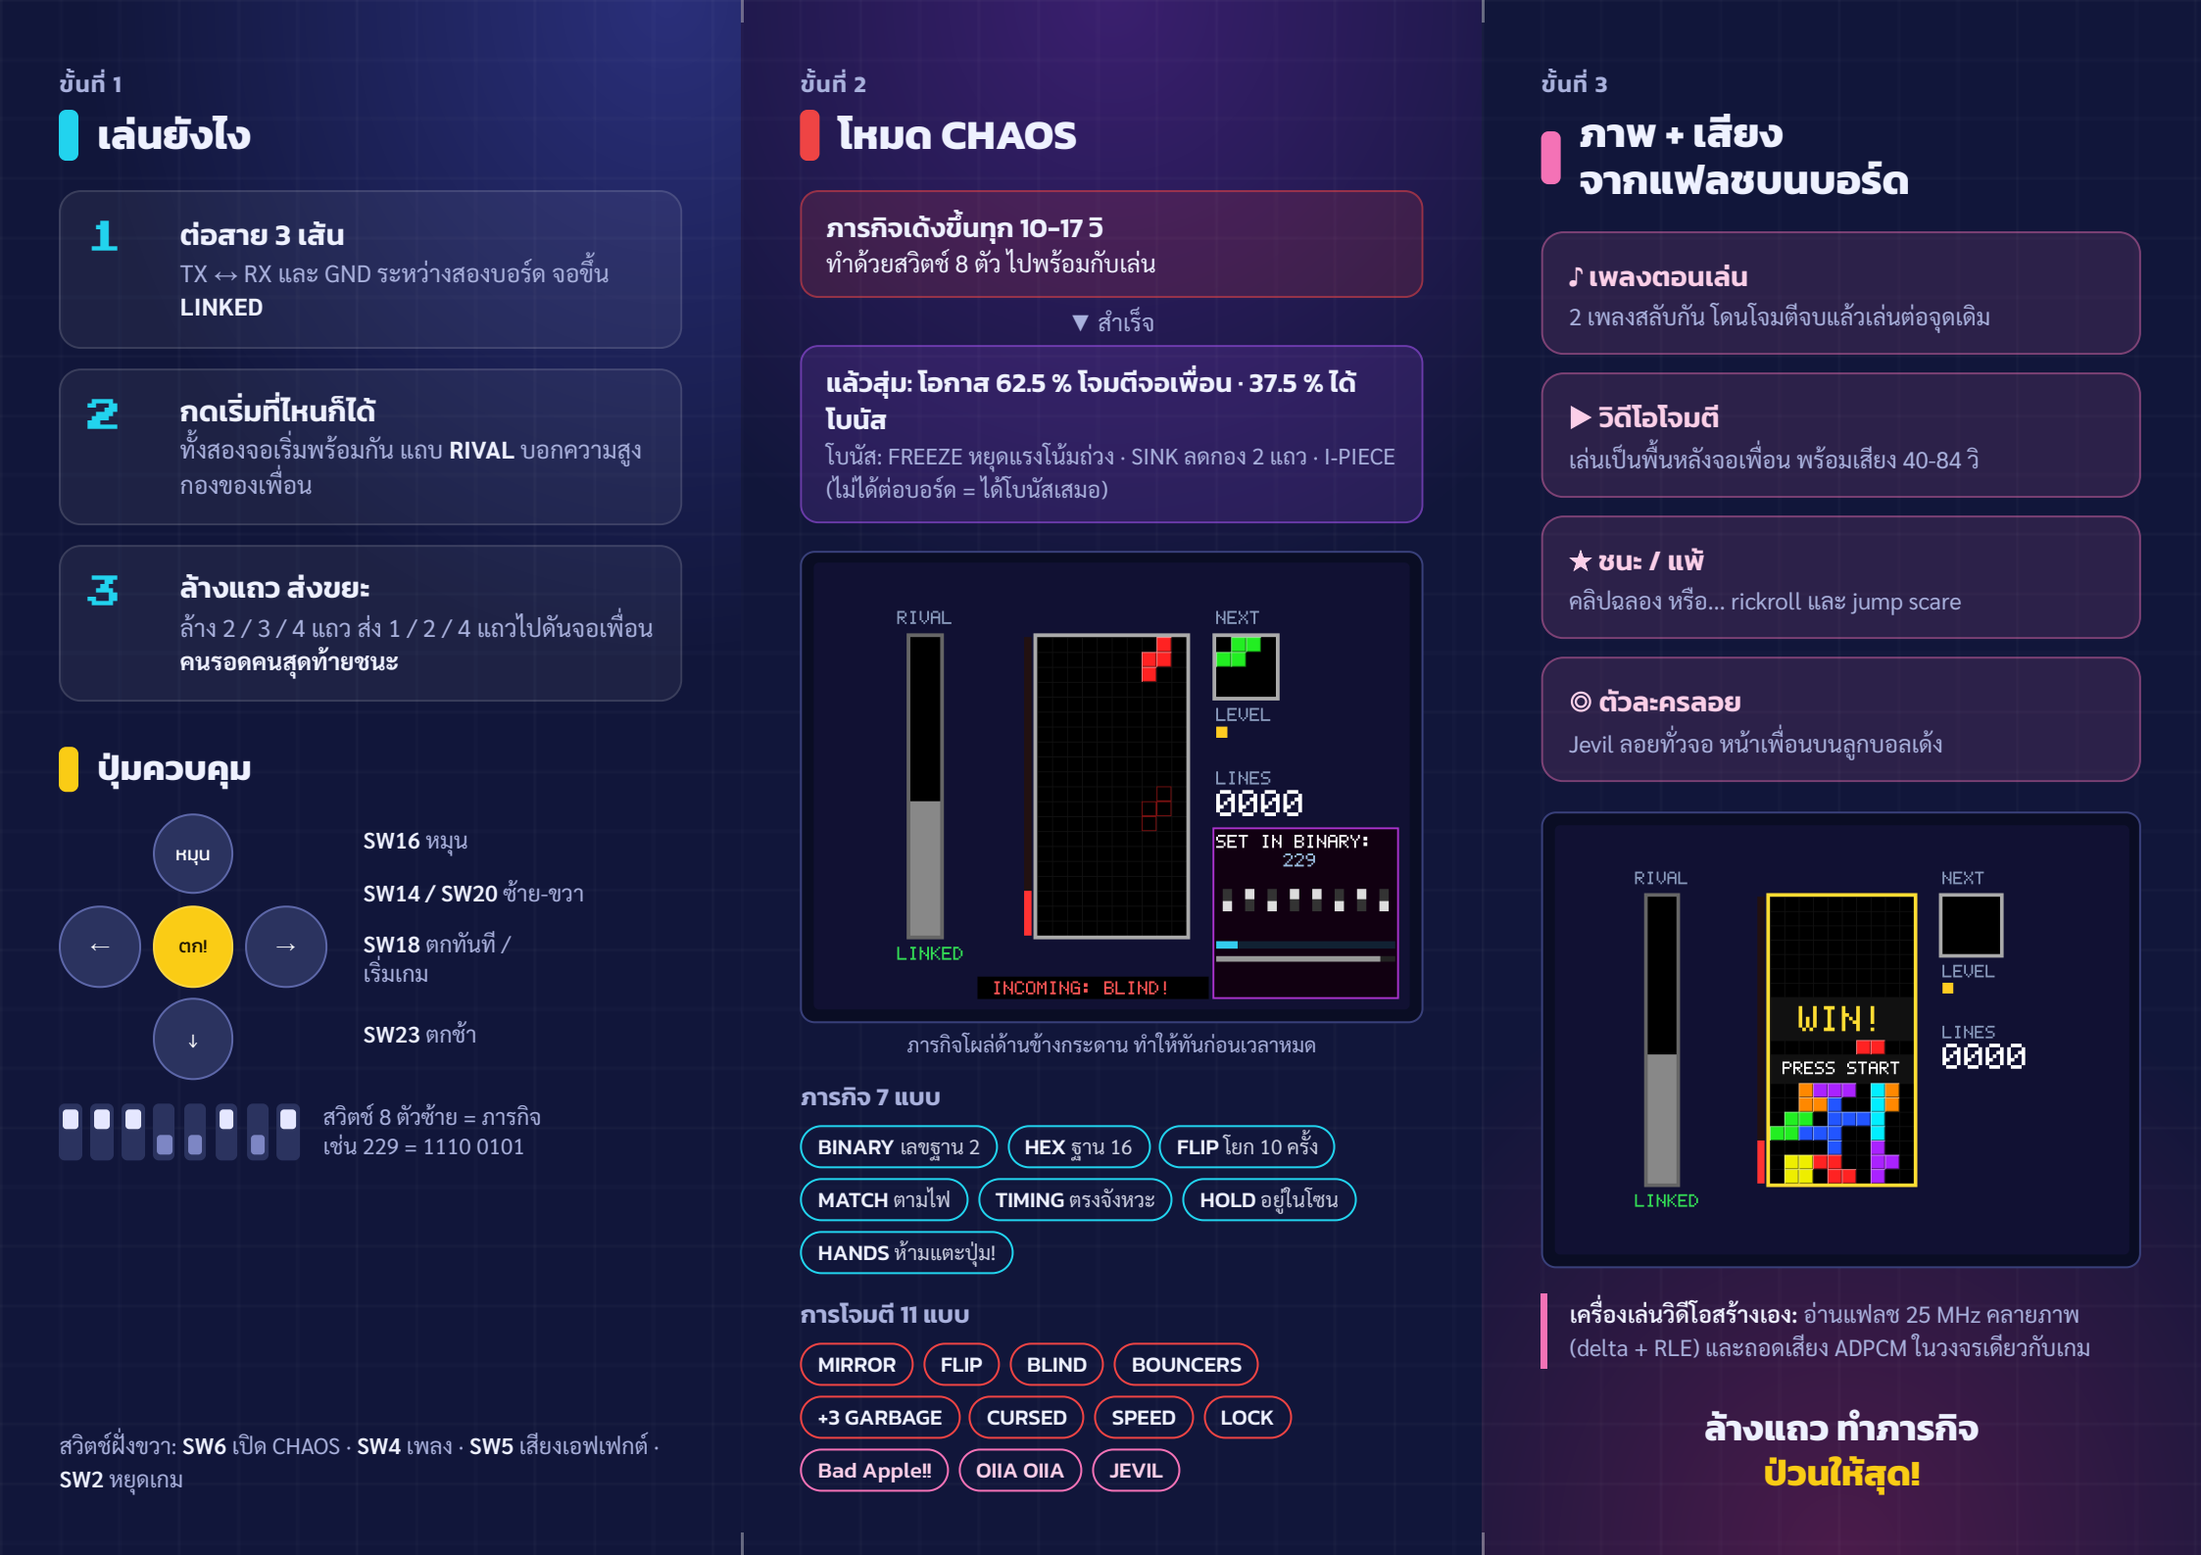
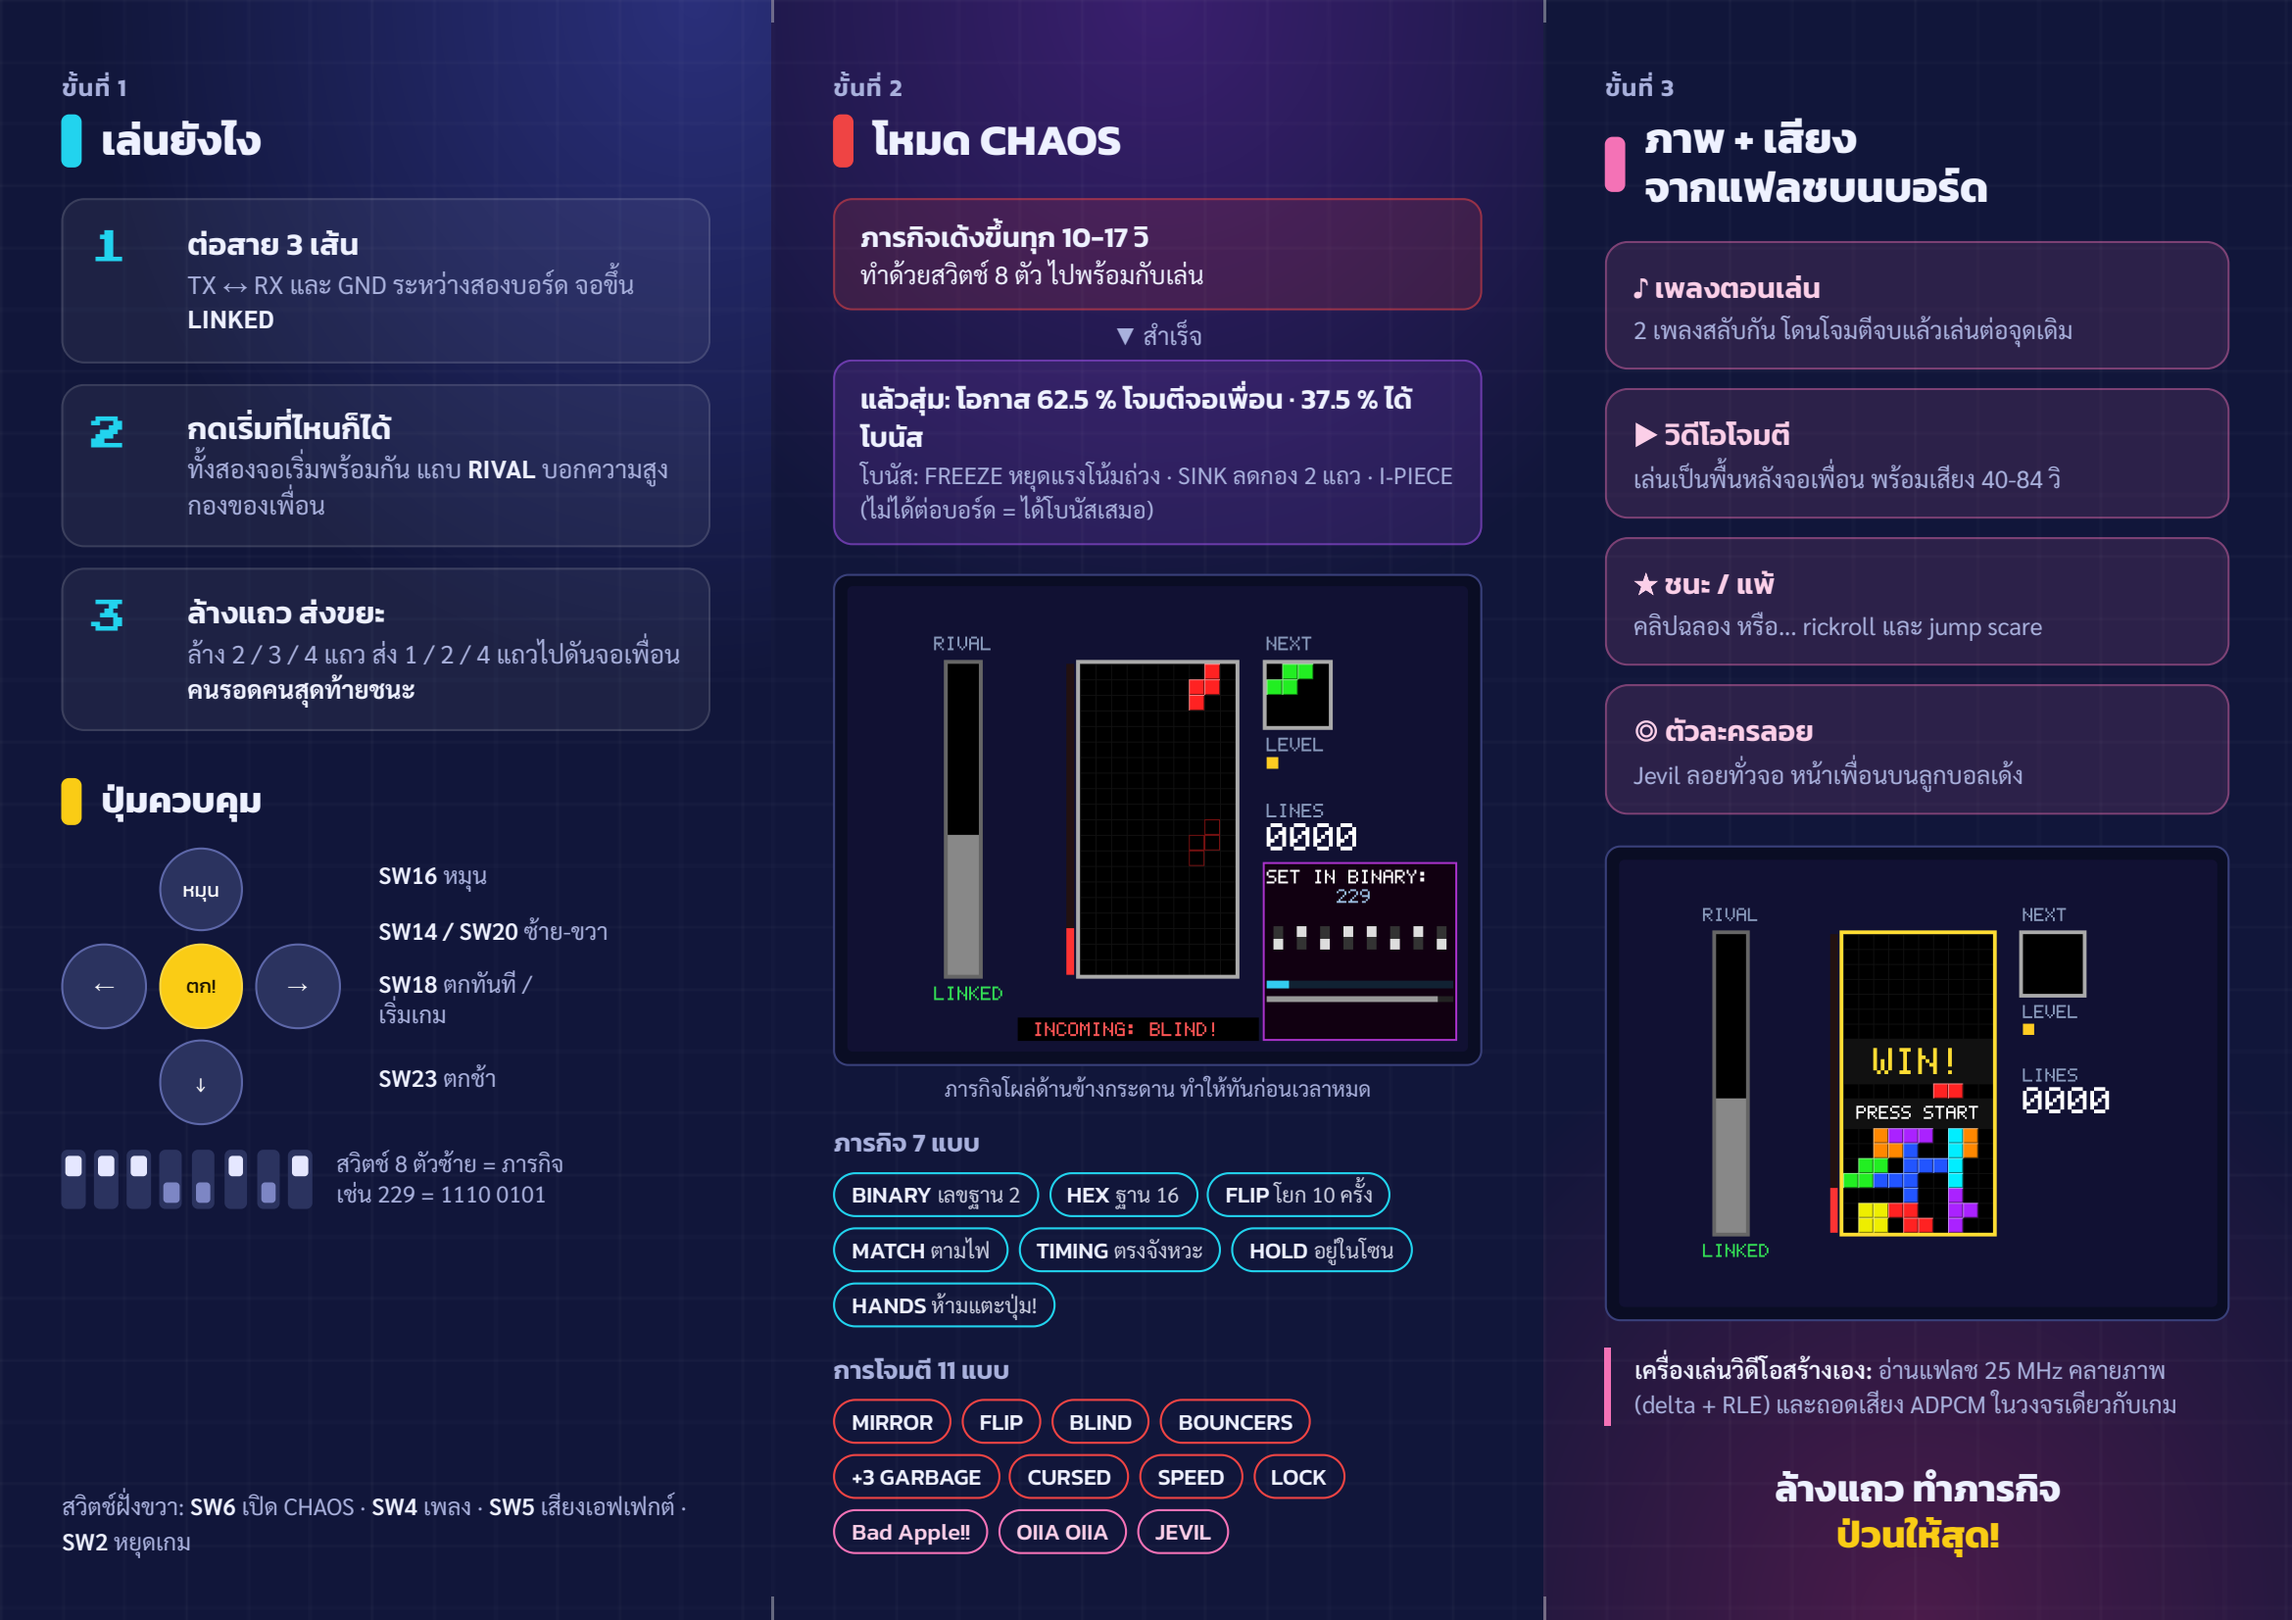
Brochure: drop the group-name placeholder (no group name)

diff --git a/submission/2.2_Brochure/brochure.html b/submission/2.2_Brochure/brochure.html
@@ -203,7 +203,7 @@
         <tr><td>ราคา</td><td><b style="color:var(--O)">ฟรี*</b> <span class="muted" style="font-size:8pt">*ต้องมีบอร์ด 2 บอร์ด และเพื่อน 1 คน</span></td></tr>
       </table>
       <div class="members">
-        <div class="hd" style="font-size:12.5pt"><span class="bar" style="background:var(--I);height:5.5mm"></span>ผู้พัฒนา · กลุ่ม [ชื่อกลุ่ม]</div>
+        <div class="hd" style="font-size:12.5pt"><span class="bar" style="background:var(--I);height:5.5mm"></span>ผู้พัฒนา</div>
         <div class="who">
           ธีรนัย ธรรมเพชร <span class="muted">68010542</span><br>
           นนธพัชร์ น้อยสวัสดิ์ <span class="muted">68010558</span><br>
@@ -239,7 +239,7 @@
         <div class="mon b"><span class="lbl">ผู้เล่น B: โดนโจมตี!</span><img src="../figures/screenshot_chaos_flip.png" alt=""></div>
         <div class="burst">INCOMING: FLIP!</div>
       </div>
-      <div class="cover-foot" style="text-align:right"><b>กลุ่ม [ชื่อกลุ่ม]</b><br>Digital System Fundamentals 2569 · CE KMITL</div>
+      <div class="cover-foot" style="text-align:right"><b>Digital System Fundamentals 2569</b><br>CE KMITL</div>
     </div>
   </div>
 </section>

diff --git a/submission/README.md b/submission/README.md
@@ -31,7 +31,7 @@
 
 | เมื่อไร | ทำอะไร | ใคร |
 |---|---|---|
-| **พ. 28 ต.ค. คืนนี้** | 1. ใส่ **ชื่อ-รหัส นศ. ทุกคน** และชื่อกลุ่มแทน `[...]` ในทุกไฟล์<br>2. อัปโหลด `Proposal.docx` และ `Design_Document.docx` ขึ้น Google Drive แล้วเปิดด้วย Google Docs<br>3. **ลงคิวส่งงาน** (ปิด 30 ต.ค. 09:00 แต่ลงไว้ก่อนเลย)<br>4. ถ่ายฟุตเทจของจริง (ดู shot list ใน `video_script.md`) | ทุกคน |
+| **พ. 28 ต.ค. คืนนี้** | 1. ใส่ **ชื่อ-รหัส นศ. ทุกคน** แทน `[...]` ในทุกไฟล์<br>2. อัปโหลด `Proposal.docx` และ `Design_Document.docx` ขึ้น Google Drive แล้วเปิดด้วย Google Docs<br>3. **ลงคิวส่งงาน** (ปิด 30 ต.ค. 09:00 แต่ลงไว้ก่อนเลย)<br>4. ถ่ายฟุตเทจของจริง (ดู shot list ใน `video_script.md`) | ทุกคน |
 | **พฤ. 29 ต.ค. เช้า** | อ่าน Proposal และ Design Doc ในกลุ่ม แก้ส่วนที่ทำเครื่องหมาย `[...]`, ทำ Brochure ใน Canva, อัดเสียงบรรยาย | แบ่งกัน |
 | **พฤ. 29 ต.ค. บ่าย** | ตัดต่อวิดีโอ → **อัปโหลด YouTube แบบ Public ให้เร็วที่สุด** (เผื่อติดลิขสิทธิ์ ดูข้อ 6) → ทำ short link (`youtu.be/...` ใช้ได้เลย) + QR code | ทีมวิดีโอ |
 | **พฤ. 29 ต.ค. เย็น** | ใส่ short link + QR ลงใน Design Doc และ Brochure → Export PDF ทุกไฟล์ → พิมพ์ (Brochure พิมพ์สี หน้า-หลัง) → ใส่ทุกอย่างลงแฟลชไดรฟ์ (ข้อ 4) → ซ้อมเดโม 2 รอบ (`demo_and_qa.md`) | ทุกคน |
@@ -53,7 +53,7 @@
   1. ใช้ตัวนี้เลย (พิมพ์ได้ทันที) หรือ
   2. ทำใหม่ใน Canva (A4 แนวนอน 2 หน้า แบ่ง 3 ช่อง ขนาดช่องดูใน `brochure_text.md`) โดยใช้ข้อความใน `brochure_text.md` และรูปใน `figures/`
      (Canva เปิด PDF ให้แก้ได้ด้วย: Create design → Import file → เลือก PDF แต่ฟอนต์ไทยอาจเพี้ยน)
-* **ส่วนที่ต้องเติมเอง** ทำเครื่องหมายไว้เป็น `[...]` (เหลือ: ชื่อกลุ่ม, รายการเครดิตสื่อ, หน้าที่ของแต่ละคนใน Proposal, ชื่อผู้นำเสนอใน `demo_and_qa.md`) ค้นหาด้วย Ctrl+F คำว่า `[`
+* **ส่วนที่ต้องเติมเอง** ทำเครื่องหมายไว้เป็น `[...]` (เหลือ: รายการเครดิตสื่อ, หน้าที่ของแต่ละคนใน Proposal, ชื่อผู้นำเสนอใน `demo_and_qa.md`) ค้นหาด้วย Ctrl+F คำว่า `[`
 * **ลิงก์**: วิดีโอ https://youtu.be/YtPQ8QKf48c (QR: `figures/qr_video.png`), โค้ด https://github.com/anakom-suvonvorn/FPGA-Tetris
 
 ## 4. สิ่งที่ต้องอยู่ในแฟลชไดรฟ์ (2.6)
@@ -115,7 +115,7 @@ CE_KMITL_Digital_2569_TetrisDuel\
 |---|---|
 | `README.md` | ไฟล์นี้ (แผนการส่งงาน) |
 | `2.1_Proposal/proposal.md` | ข้อความ Proposal ฉบับเต็ม |
-| `2.2_Brochure/brochure.html` | Brochure ตัวอย่าง แผ่นพับ 3 ตอน (A4 แนวนอน ด้านนอก + ด้านใน) → `Brochure_example.pdf`, `Brochure_outside.png`, `Brochure_inside.png` |
+| `2.2_Brochure/brochure.html` | Brochure ตัวอย่าง แผ่นพับ 3 ตอน (A4 แนวนอน ด้านนอก + ด้านใน) → `Brochure.pdf`, `Brochure_outside.png`, `Brochure_inside.png` |
 | `2.2_Brochure/brochure_text.md` | ข้อความ Brochure แยกเป็นช่อง สำหรับ Canva |
 | `2.3_Design_Document/design_document.md` | Design Document ฉบับเต็ม (~75 หน้า: Top-Down ระดับ 0-4, พื้นฐานจากศูนย์, Top-Down ทุกโมดูลพร้อมโค้ดจริง, วิธีสร้างซ้ำ, schematic จาก Vivado; โค้ดเต็มอ้างไปที่ GitHub) แก้ที่ `parts/*.md` แล้วรวมเป็นไฟล์นี้ โค้ดในเอกสารดึงจากไฟล์จริงตอนรัน `python build_docs.py` |
 | `figures/faces_on_bouncers.py` | ภาพหน้าจอสำหรับเอกสาร: ใส่หน้าเพื่อนบนลูกบอลตามกติกาเดียวกับวงจร (ภาพจำลองไม่มีแฟลช) |

diff --git a/submission/2.5_Video/video_script.md b/submission/2.5_Video/video_script.md
@@ -56,7 +56,7 @@
 | **1:45-2:10** | C1 → C2 → C3 | "และการโจมตีที่โหดที่สุด คือเปิดวิดีโอใส่จอคู่แข่ง พร้อมเพลง! วิดีโอ เพลง และรูปทั้งหมดเกือบเจ็ดเมกะไบต์ เก็บอยู่ในชิปแฟลชบนบอร์ดเอง วงจรอ่านแฟลช ถอดรหัสภาพและเสียงแบบเรียลไทม์ แล้ววาดซ้อนกับเกม" | สื่อ 6.9 MB ในแฟลช 8 MB |
 | **2:10-2:25** | C4 → C5 | "ชนะก็มีคลิปฉลอง แพ้ก็... ลองดูเอง" | 🏆 / 💀 |
 | **2:25-3:00** | `fig_hierarchy.png` → `fig_media_path.png` → D2 → D1 | "เราออกแบบแบบ Top-Down: แบ่งระบบเป็นกลุ่มหน้าที่ แล้วแบ่งเป็นโมดูล VHDL ยี่สิบห้าไฟล์ ทุกโมดูลทดสอบด้วย simulation ก่อนลงบอร์ด สิบสามชุด และทดสอบฮาร์ดแวร์อีกหกชุด ทั้งหมดใช้ชิปไปแปดสิบห้าเปอร์เซ็นต์ และ block RAM ครบทุกก้อน" | VHDL 25 ไฟล์ · testbench 13 ชุด · LUT 85 % · BRAM 100 % |
-| **3:00-3:20** | D3 + รายชื่อเลื่อนขึ้น | "Tetris Duel: CHAOS Edition โดยกลุ่ม [ชื่อกลุ่ม] วิชา Digital System Fundamentals ภาควิชาวิศวกรรมคอมพิวเตอร์ สจล." | **รายชื่อ + รหัส นศ. ทุกคน** (ดูข้อ 3) |
+| **3:00-3:20** | D3 + รายชื่อเลื่อนขึ้น | "Tetris Duel: CHAOS Edition วิชา Digital System Fundamentals ภาควิชาวิศวกรรมคอมพิวเตอร์ สจล." | **รายชื่อ + รหัส นศ. ทุกคน** (ดูข้อ 3) |
 | **3:20-3:30** | เครดิตสื่อ (ตัวหนังสือเล็ก) | (เพลงเกมจางลง) | ดูข้อ 4 |
 
 ---

diff --git a/submission/2.2_Brochure/brochure_text.md b/submission/2.2_Brochure/brochure_text.md
@@ -1,6 +1,6 @@
 # ข้อความ Brochure สำหรับ Canva (แผ่นพับ 3 ตอน)
 
-ตัวอย่างที่ทำเสร็จแล้ว: `Brochure_example.pdf` (2 หน้า: ด้านนอก + ด้านใน) ดูเป็นรูป: `Brochure_outside.png`, `Brochure_inside.png`
+ตัวอย่างที่ทำเสร็จแล้ว: `Brochure.pdf` (2 หน้า: ด้านนอก + ด้านใน) ดูเป็นรูป: `Brochure_outside.png`, `Brochure_inside.png`
 ใช้แบบนี้ได้เลย หรือจะทำใหม่ใน Canva ก็ได้ โดย copy ข้อความจากช่องด้านล่าง
 
 ## รูปแบบ: A4 แนวนอน พับ 3 ตอน (roll fold / tri-fold)
@@ -44,7 +44,6 @@
 **รูป**: จอสองจอเอียงซ้อนกัน (ผู้เล่น A / ผู้เล่น B: โดนโจมตี!) + ป้าย **INCOMING: FLIP!**
 
 **ท้ายปก**
-> กลุ่ม [ชื่อกลุ่ม]
 > Digital System Fundamentals 2569 · CE KMITL
 
 ---
@@ -89,7 +88,7 @@
 | ราคา | **ฟรี*** (*ต้องมีบอร์ด 2 บอร์ด และเพื่อน 1 คน) |
 
 **กล่องผู้พัฒนา**
-> ผู้พัฒนา · กลุ่ม [ชื่อกลุ่ม]
+> ผู้พัฒนา
 > ธีรนัย ธรรมเพชร 68010542
 > นนธพัชร์ น้อยสวัสดิ์ 68010558
 > พิสิษฐ์ ปัญคิวจณาณ์ 68010798
